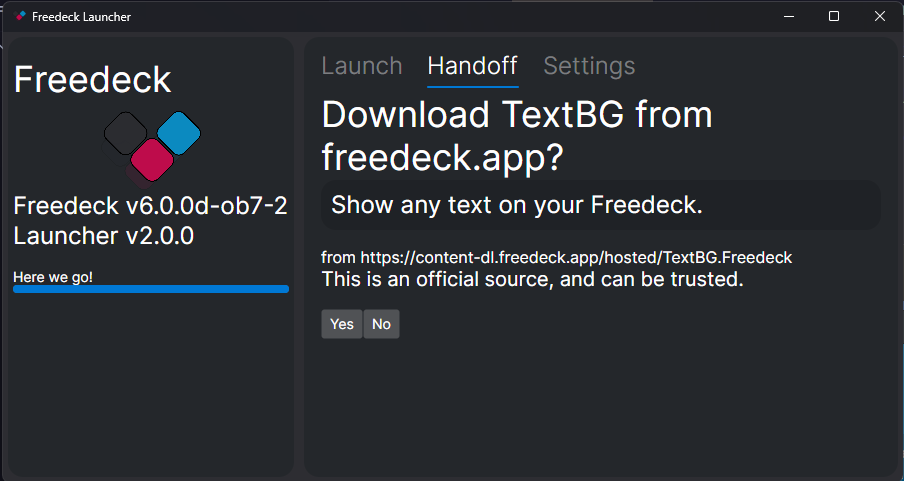
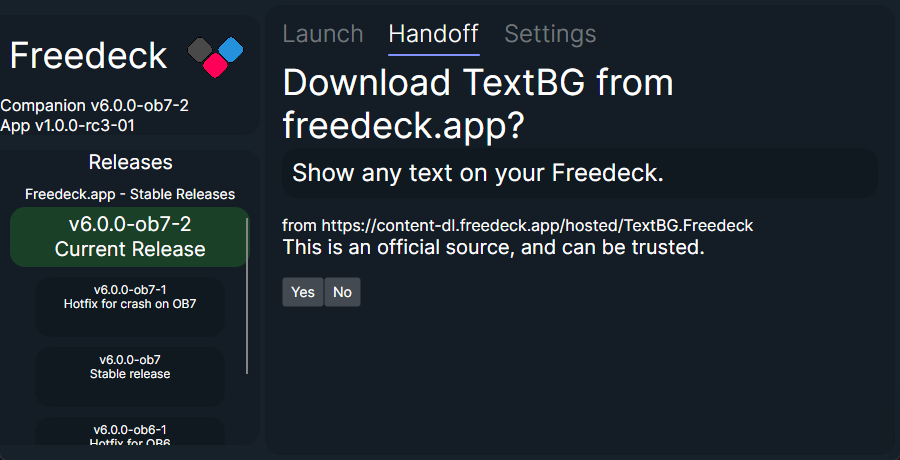
utpdate

diff --git a/README.md b/README.md
@@ -12,7 +12,8 @@ Made with Avalonia and .NET 8.0.
 These may not be up-to-date as the UI continues to evolve.  
 
 ## Installation: Setup
-![Launch tab](ss/UIISetup.png)
+![Setup tab](ss/UIISetup.png)
+![Setup tab, installing](ss/UIISetupProgress.png)
 
 
 ## Launch Tab
@@ -21,7 +22,7 @@ These may not be up-to-date as the UI continues to evolve.
 
 ## Settings Tab
 ![Settings tab](ss/UISettings.png)
-![Settings tab, showing option to reset launcher config](ss/UISettingsExtended.png)
+![Settings tab, showing Companion settings](ss/UISettingsExtended.png)
 
 ## Handoff Plugin Download Request
 ![Download request](ss/UIHDownload.png)
